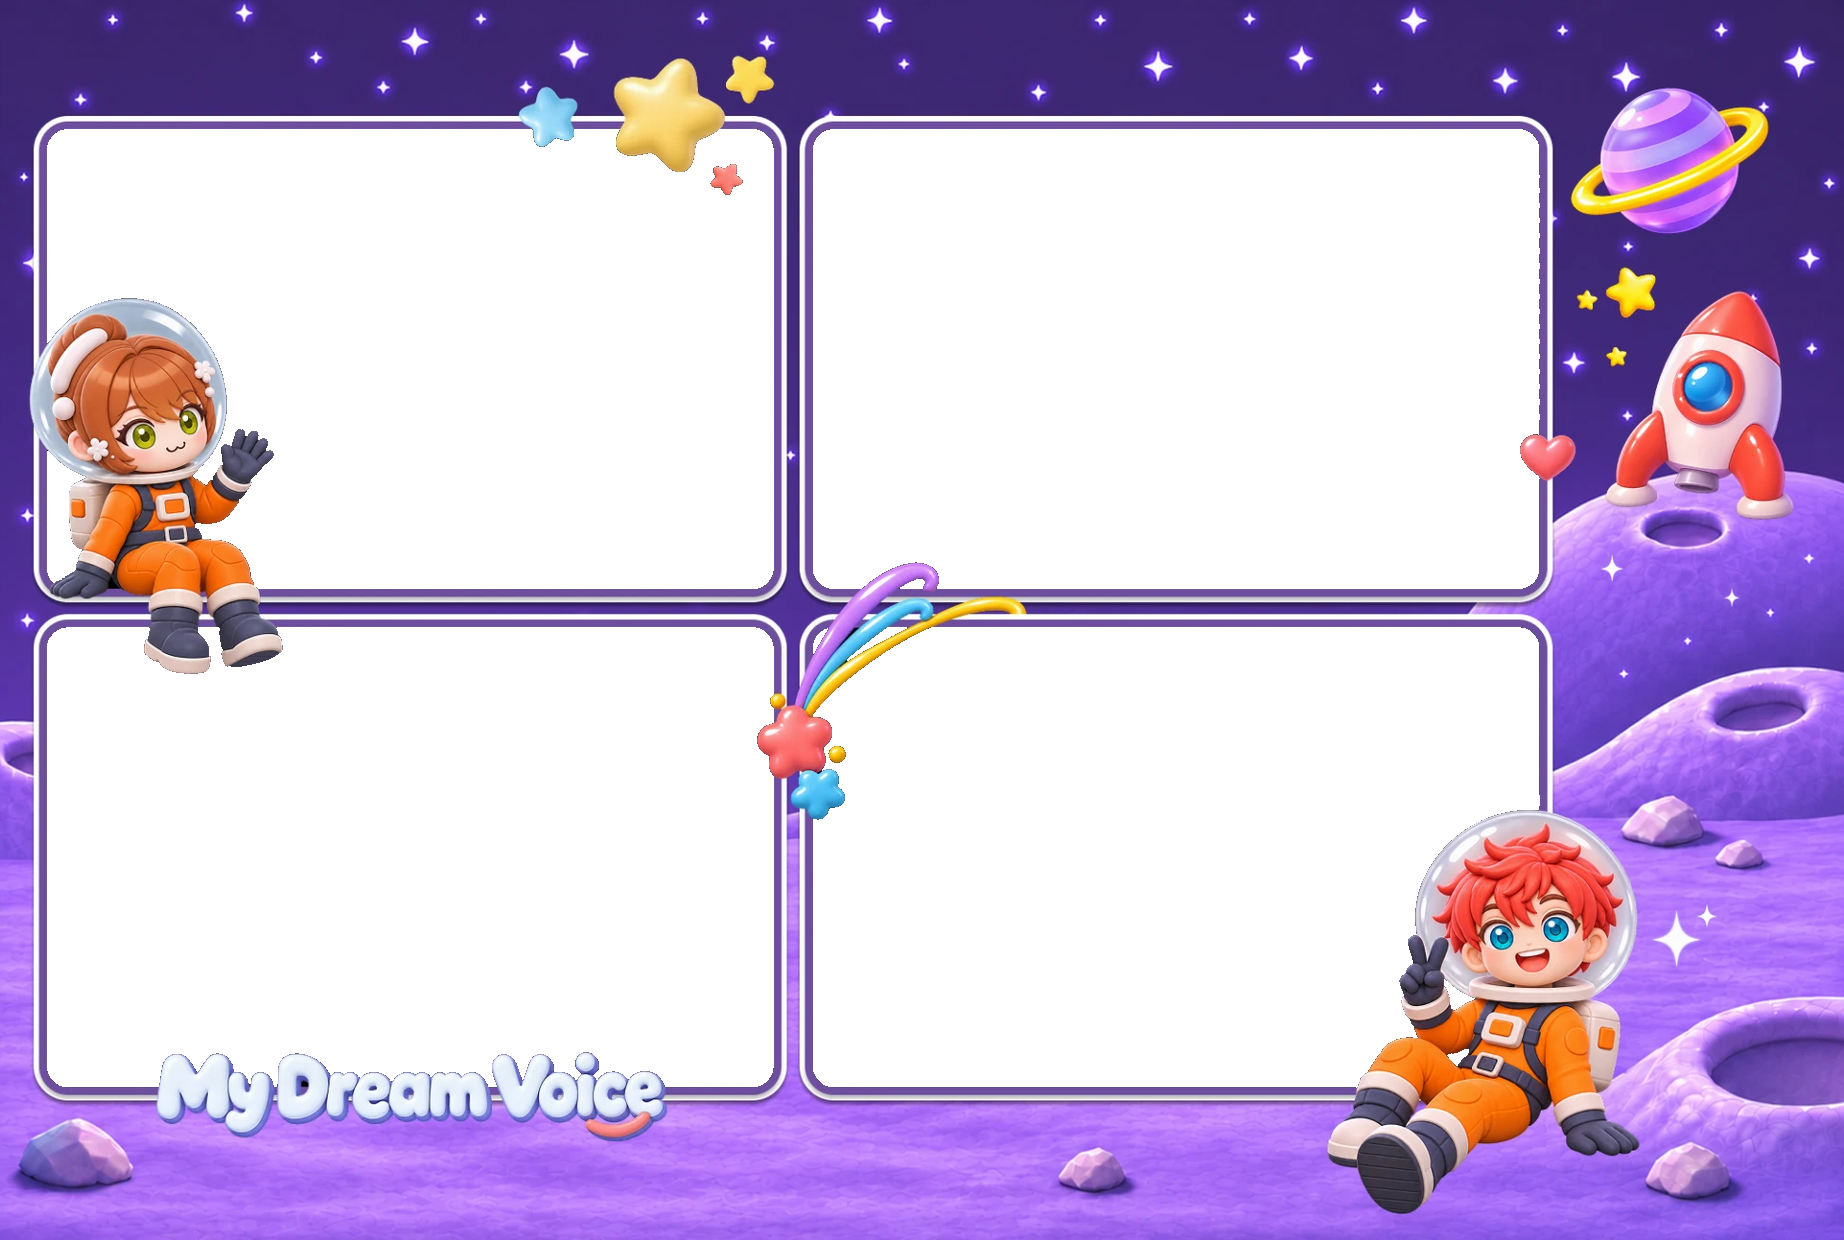
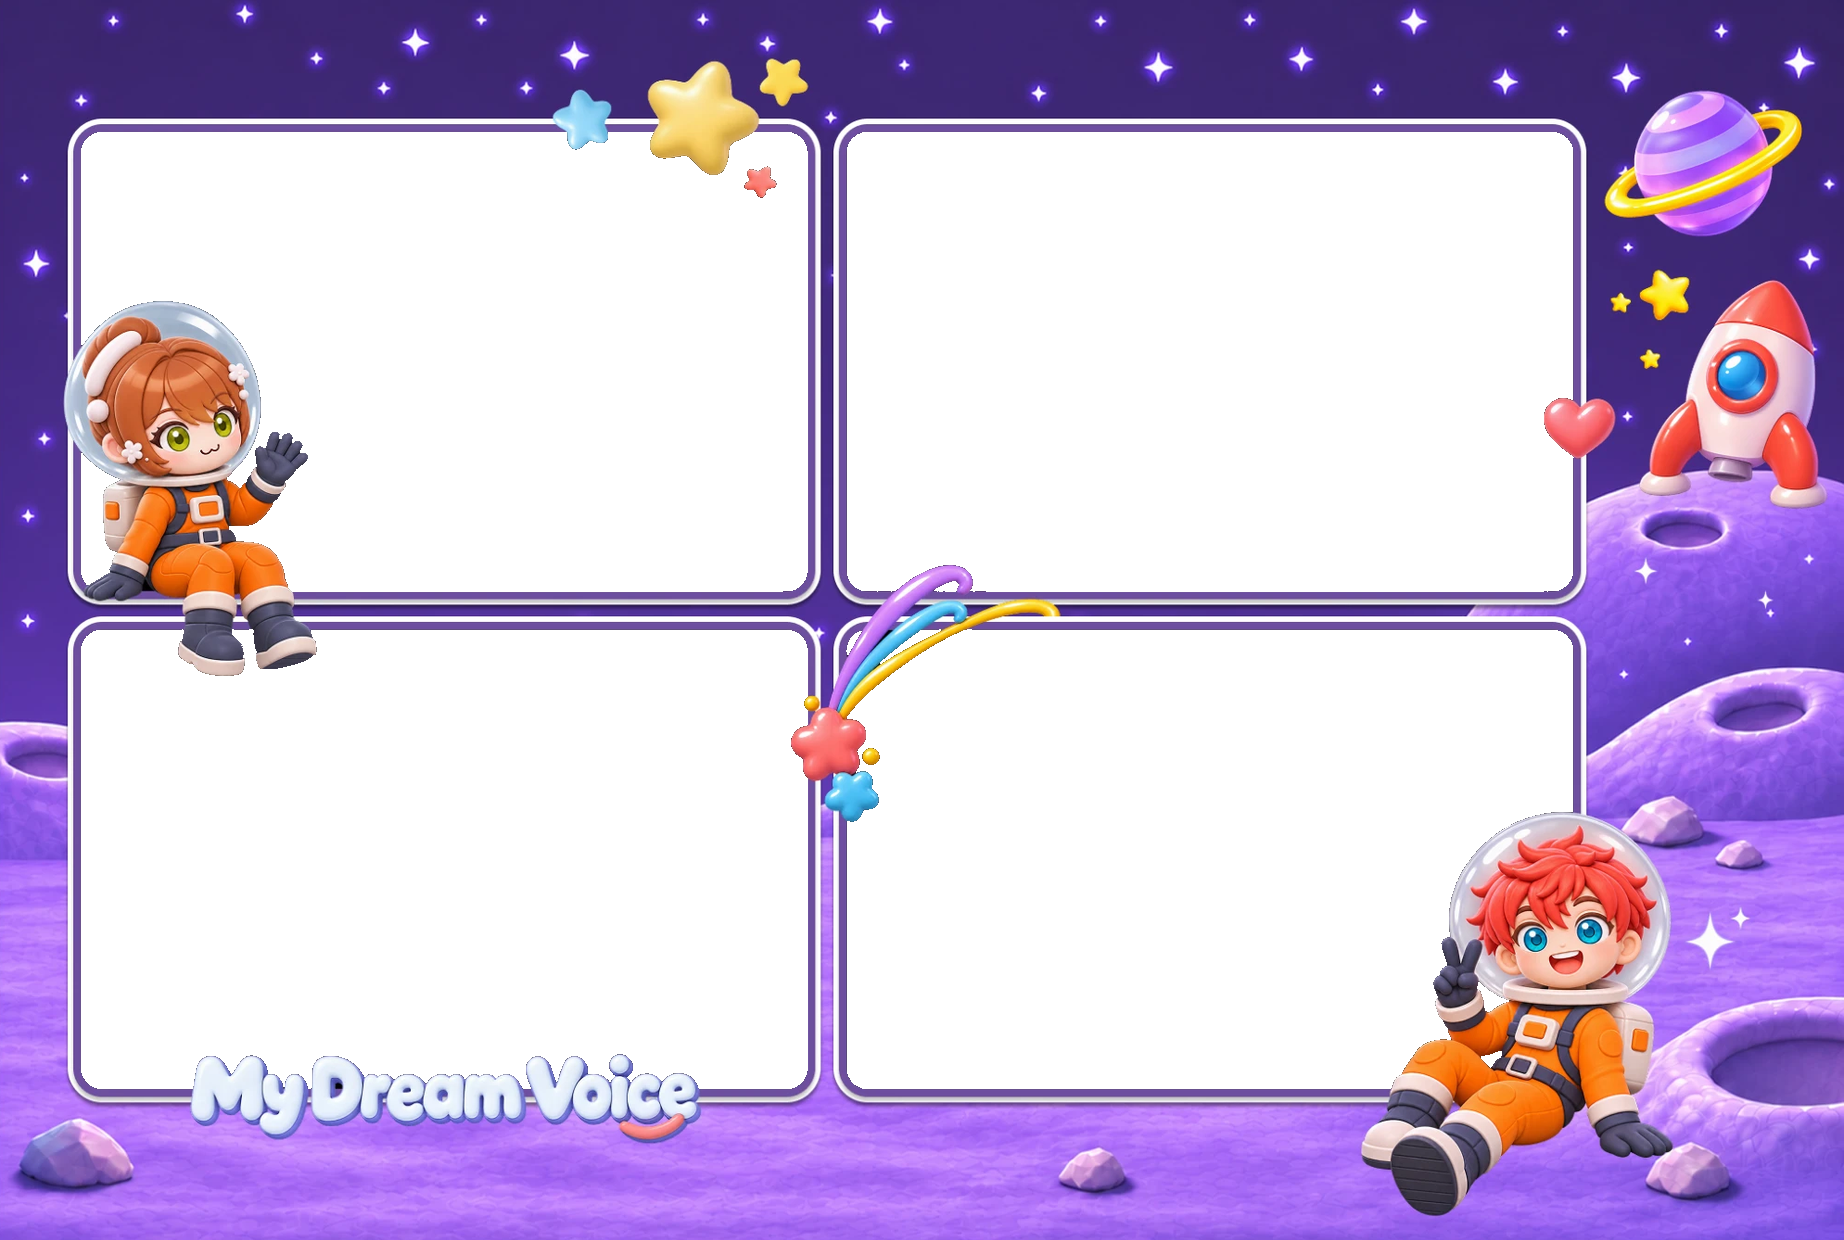
의사 시험 프레임 — 우주 그림 2번째 판으로 바꿈(칸이 오른쪽으로 · 칸 좌표 다시 잼) · 0.2.9 설치 파일

Changed region(s): [[0.0, 0.0306, 0.9892, 0.9806]]

diff --git a/kiosk/src/shared/constants.ts b/kiosk/src/shared/constants.ts
@@ -81,14 +81,14 @@ export const FOURCUT = {
     /** 가수 — 2026-11-24 시험: 우주비행사와 같은 틀에 왼쪽 아래 칸만 구름 모양(구멍 152,630 · 764×553 — 같은 네모 안에 들어간다) */
     singer: NEW_FRAME_CELLS,
     /**
-     * 의사 — 2026-11-25 시험 인쇄: 우주 그림 새 판(받은 그림 2000×1318 · 칸이 검정).
-     * 검정 칸을 뚫은 구멍(47,130 · 813,130 · 47,628 · 813,628 · 726×459 — 네 칸 같은 크기)에 둘레 3px
+     * 의사 — 2026-11-25 시험 인쇄: 우주 그림 새 판 2번째(받은 그림 2000×1341 · 칸이 검정 · 같은 날 첫 판보다 칸이 오른쪽으로).
+     * 검정 칸을 뚫은 구멍(82,132 725×459 · 847,133 726×458 · 82,630 725×459 · 847,630 726×459)에 둘레 3px
      */
     doctor: [
-      { x: 44, y: 127, width: 732, height: 465 },
-      { x: 810, y: 127, width: 732, height: 465 },
-      { x: 44, y: 625, width: 732, height: 465 },
-      { x: 810, y: 625, width: 732, height: 465 },
+      { x: 79, y: 129, width: 731, height: 465 },
+      { x: 844, y: 130, width: 732, height: 464 },
+      { x: 79, y: 627, width: 731, height: 465 },
+      { x: 844, y: 627, width: 732, height: 465 },
     ],
   } as Readonly<Record<string, readonly Rect[]>>,
 } as const

diff --git a/kiosk/src/renderer/public/frames/README.md b/kiosk/src/renderer/public/frames/README.md
@@ -5,7 +5,7 @@
 > **2026-11-23: 직업별 프레임 6장이 들어 있다** (경찰 보라 · 우주비행사 노랑 · 가수 분홍 · 크리에이터 살구 · 의사 초록 · 로봇개발자 하늘).
 > **2026-11-24: 우주비행사 프레임을 새 그림으로 바꿨다** (같은 날 세 번째 판) — 보라 우주 하늘 · 달 표면 · 둥근 모서리 칸 4개(왼쪽 두 칸이 오른쪽보다 좁다). 받은 그림(2000×1349)은 칸이 이미 투명이었다 → 칸 안의 옅은 반투명 얼룩을 지우고(불투명 가장자리 2px 밖의 α<128) · 거의 불투명(α 200~254)은 불투명으로 · 1844×1244로 줄이고 위아래 2px 자름.
 > 같은 날 받은 노란 격자 틀(띠 없음)은 가수 시험 프레임 `singer-test.png`로 쓴다 (왼쪽 아래 칸 구름 모양). 두 프레임 모두 칸 자리가 나머지와 달라 **`FOURCUT.cellsByJob`** 에 직업별로 따로 적었다.
-> **2026-11-25: 의사 시험 프레임 `doctor-test.png`** — 우주 그림 새 판(보라 하늘 · 달 표면 · 우주비행사 남녀 · 칸 4개 같은 크기). 받은 그림(2000×1318)은 칸이 **검정**이었다 → 왼쪽 투명 여백(47px) 버림 · 1844×1244로 줄이고 위아래 2px 자름 · 검정 칸을 뚫음(캐릭터에 가려 떨어진 검정 조각도 거의 순검정인 것만 — 눈동자 · 그림자는 그대로) · 가장자리 어두운 1px까지. 원래 `doctor.png`는 그대로 있다.
+> **2026-11-25: 의사 시험 프레임 `doctor-test.png`** — 우주 그림 새 판(보라 하늘 · 달 표면 · 우주비행사 남녀 · 칸 4개 같은 크기). 같은 날 두 번째 판으로 바꿈 — 받은 그림(2000×1341)은 칸이 **검정**이었다 → 왼쪽 투명 여백(11px) 버림 · 1844×1243으로 줄이고 위 1px · 아래 2px 자름 · 검정 칸을 뚫음(캐릭터에 가려 떨어진 검정 조각도 거의 순검정인 것만 — 눈동자 · 그림자는 그대로) · 가장자리 어두운 1px까지. 원래 `doctor.png`는 그대로 있다.
 >
 > 어느 직업이 어느 파일을 쓰는지는 `src/renderer/photo/composeFourCut.ts`의 **`FRAME_FILE`** 한 곳에 있다.
 >
